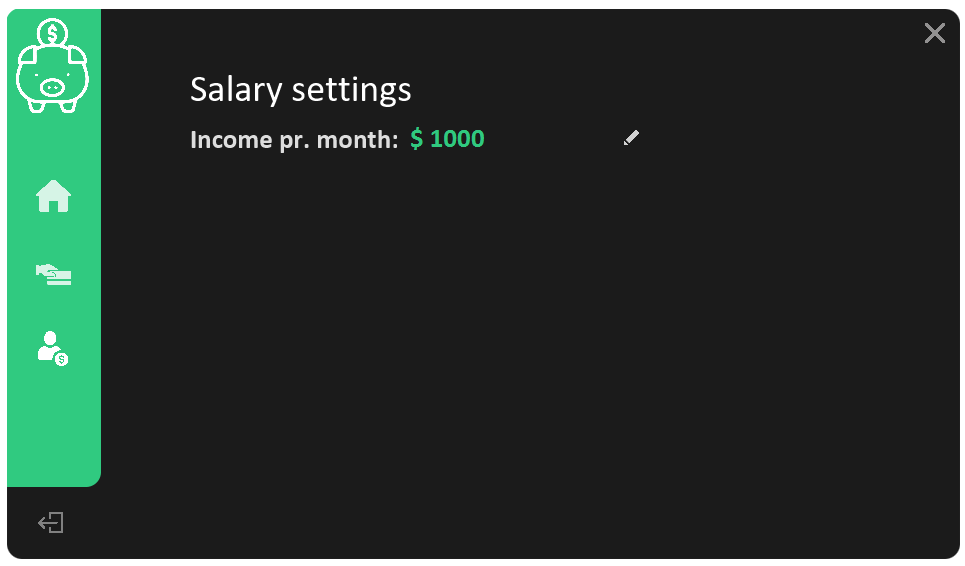
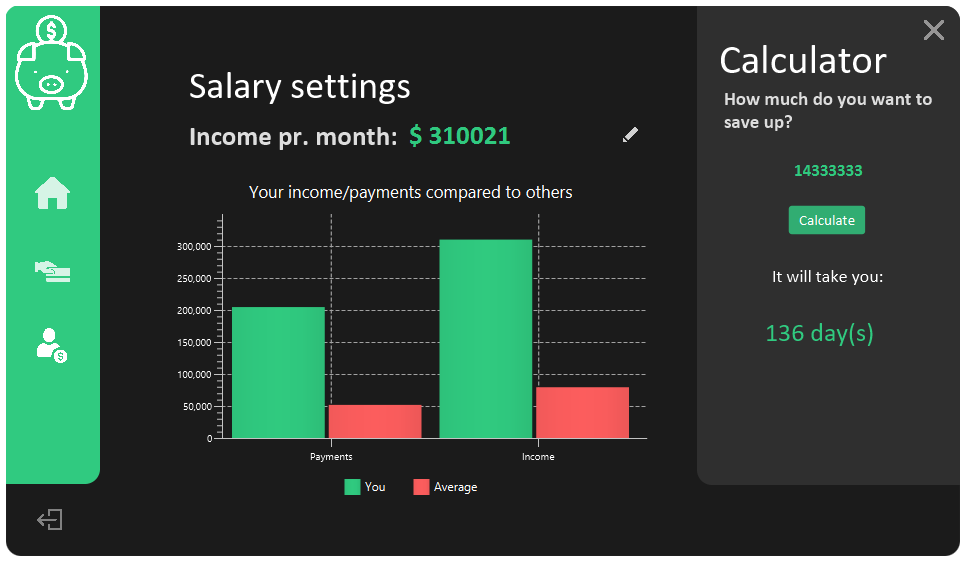
Added a calculator so the user can see how long time it would take him to save up x amount of money. (also updated the picture)

diff --git a/src/css/usersettings.css b/src/css/usersettings.css
@@ -86,3 +86,17 @@
 
 .default-color0.chart-bar { -fx-bar-fill: #30CA80; }
 .default-color1.chart-bar { -fx-bar-fill: #fc5d5d; }
+
+#saveUp{
+    -fx-text-fill: #30CA80;
+}
+
+#calculate{
+    -fx-background-color: #31AD72;
+    -fx-text-fill: #fff;
+}
+
+#calculate:hover{
+    -fx-background-color: #30CA80;
+    -fx-cursor: hand;
+}

diff --git a/src/UserSettings.java b/src/UserSettings.java
@@ -5,6 +5,7 @@ import javafx.scene.chart.BarChart;
 import javafx.scene.chart.XYChart;
 import javafx.scene.control.TextField;
 import javafx.scene.image.ImageView;
+import javafx.scene.text.Text;
 import javafx.stage.Stage;
 import org.hibernate.Session;
 import org.hibernate.Transaction;
@@ -17,6 +18,12 @@ import java.util.List;
 public class UserSettings {
 
     @FXML
+    private TextField saveUp;
+    @FXML
+    private Text resultTitle;
+    @FXML
+    private Text result;
+    @FXML
     private BarChart<String,Number> comparisonChart;
     @FXML
     private TextField income;
@@ -25,18 +32,18 @@ public class UserSettings {
     @FXML
     private ImageView saveIncome;
 
-    private Stats stats;
-
     @FXML
     private void initialize() {
         income.setText("$ " + Controller.user.getIncome());
         setupBarchart();
     }
 
+    /**
+     * Setting up bar chart by retrieving information from the user
+     * and from all the other users calculating the average income/payments.
+     * */
     private void setupBarchart(){
-        if(stats == null){
-            stats = getStats();
-        }
+        Stats stats = getStats();
         comparisonChart.setTitle("Your income/payments compared to others");
         XYChart.Series<String,Number> user = new XYChart.Series<>();
         XYChart.Series<String,Number> avg = new XYChart.Series<>();
@@ -44,8 +51,8 @@ public class UserSettings {
         user.setName("You");
         user.getData().add(new XYChart.Data<>("Payments",Controller.user.getMonthlyPayment()));
         user.getData().add(new XYChart.Data<>("Income",Controller.user.getIncome()));
-        avg.getData().add(new XYChart.Data<>("Payments",stats.getAveragePayments()));
-        avg.getData().add(new XYChart.Data<>("Income",stats.getAverageIncome()));
+        avg.getData().add(new XYChart.Data<>("Payments", stats.getAveragePayments()));
+        avg.getData().add(new XYChart.Data<>("Income", stats.getAverageIncome()));
         comparisonChart.getData().add(user);
         comparisonChart.getData().add(avg);
     }
@@ -106,6 +113,9 @@ public class UserSettings {
         saveIncome.setVisible(true);
     }
 
+    /**
+     * Updates the users income.
+     * */
     public void saveMethod() {
         try (Session session = MainUI.server.getSession()) {
             Transaction tr = session.beginTransaction();
@@ -116,13 +126,37 @@ public class UserSettings {
         finally {
             income.setText("$ " + Controller.user.getIncome());
         }
+        // updating the chart
         comparisonChart.setAnimated(false);
         comparisonChart.getData().clear();
         comparisonChart.setAnimated(true);
         setupBarchart();
+
+        // change it to invisible since new income
+        // doesn't mean the same saving result
+        resultTitle.setVisible(false);
+        result.setVisible(false);
+        saveUp.clear();
         income.setEditable(false);
         saveIncome.setVisible(false);
         editIncome.setVisible(true);
+    }
+
+    public void calculateSaving() throws NumberFormatException{
+        resultTitle.setVisible(true);
+        int moneyLeft = Controller.user.getIncome()-Controller.user.getMonthlyPayment();
+        if(moneyLeft <= 0){
+            resultTitle.setText("You don't earn enough money to save up anything.");
+        }else{
+            double totalCost = Math.ceil((double) Integer.parseInt(saveUp.getText())/moneyLeft);
+            if(totalCost > 180){
+                result.setText((int) Math.ceil(totalCost/30) + " month(s)");
+            } else {
+                result.setText((int) totalCost + " day(s)");
+            }
+            resultTitle.setText("It will take you:");
+            result.setVisible(true);
+        }
     }
 
     public void logOut() throws IOException {
